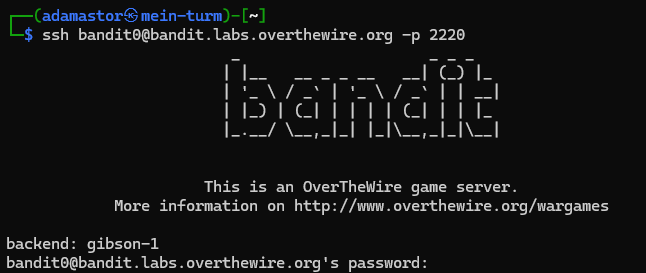
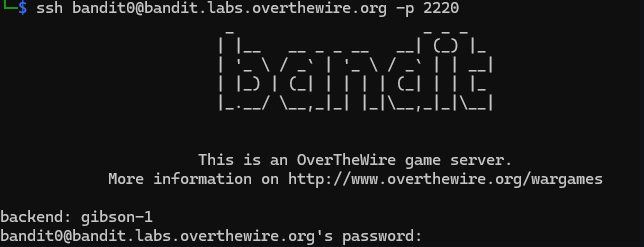
bandit 16 solutions

Changed region(s): [[0.0, 0.0, 0.7764, 0.5101], [0.1553, 0.6235, 0.9627, 0.7935], [0.0, 0.8502, 0.6522, 1.0]]

diff --git a/OverTheWire Bandit Game.md b/OverTheWire Bandit Game.md
@@ -506,3 +506,137 @@ FO5dwFsc0cbaIiH0h8J2eUks2vdTDwAn
 ```
 
 ---
+---
+
+## Level 13 → Level 14
+
+### Level Info
+
+>The password for the next level is stored in **/etc/bandit_pass/bandit14 and can only be read by user bandit14**. For this level, you don’t get the next password, but you get a private SSH key that can be used to log into the next level. Look at the commands that logged you into previous bandit levels, and find out how to use the key for this level.
+
+---
+
+### Commands
+
+```bash
+ls
+cat sshkey.private
+exit
+nano bandit14.key
+chmod 600 bandit14.key
+ssh -i bandit14.key bandit14@bandit.labs.overthewire.org -p 2220
+```
+
+![](assets/bandit13/step1.png)
+![](assets/bandit13/step2.png)
+![](assets/bandit13/step3.png)
+
+> **Password:** MU4VWeTyJk8ROof1qqmcBPaLh7lDCPvS
+
+### Explanation
+
+>In this level, instead of a password, a private SSH key is provided.  
+>The password for the next level can only be read by user **bandit14**, so we must authenticate as that user using the given private key.
+
+>Using SSH with the `-i` option allows us to specify the private key file and log in directly as **bandit14**, gaining access to the next level.
+
+>Don't forget to cat /etc/bandit_pass/bandit14
+
+### Into the next!
+
+```bash
+ssh -i bandit14.key bandit14@bandit.labs.overthewire.org -p 2220
+```
+or
+```bash
+ssh bandit15@bandit.labs.overthewire.org -p 2220
+```
+
+```bash
+MU4VWeTyJk8ROof1qqmcBPaLh7lDCPvS
+```
+
+---
+
+## Level 14 → Level 15
+
+### Level Info
+
+>The password for the next level can be retrieved by submitting the password of the current level to **port 30000 on localhost**.
+
+---
+
+### Commands
+
+```bash
+echo "MU4VWeTyJk8ROof1qqmcBPaLh7lDCPvS" | nc localhost 30000
+```
+
+![](assets/bandit14/step1.png)
+
+> **Password:** 8xCjnmgoKbGLhHFAZlGE5Tmu4M2tKJQo
+
+### Explanation
+
+>This level introduces a network service running locally on the server.  
+>The password must be sent to **port 30000 on localhost**.
+
+>Using `echo`, the current password is provided as input.  
+>The pipe (`|`) forwards this input to `nc` (netcat), which opens a TCP connection to the specified port.
+
+>When the correct password is received, the service returns the password for the next level.
+
+### Into the next!
+
+```bash
+ssh bandit15@bandit.labs.overthewire.org -p 2220
+```
+
+```bash
+8xCjnmgoKbGLhHFAZlGE5Tmu4M2tKJQo
+```
+
+---
+
+## Level 15 → Level 16
+
+### Level Info
+
+>The password for the next level can be retrieved by submitting the password of the current level to **port 30001 on localhost** using SSL/TLS encryption.
+
+>**Helpful note: Getting “DONE”, “RENEGOTIATING” or “KEYUPDATE”? Read the “CONNECTED COMMANDS” section in the manpage.**
+
+---
+
+### Commands
+
+```bash
+openssl s_client -connect localhost:30001
+# input the password from Bandit14: 8xCjnmgoKbGLhHFAZlGE5Tmu4M2tKJQo
+```
+
+![](assets/bandit15/step2.png)
+![](assets/bandit15/step1.png)
+
+> **Password:** kSkvUpMQ7lBYyCM4GBPvCvT1BfWRy0Dx
+
+### Explanation
+
+>`openssl s_client` is used to establish a TLS connection to `localhost` on port `30001`.  
+>Once connected, the current level’s password is typed manually and sent to the service.
+
+>If the password is correct, the server responds with the password for the next level.
+
+>Messages like **DONE**, **RENEGOTIATING**, or **KEYUPDATE** are part of the TLS handshake and can be ignored.
+
+### Into the next!
+
+```bash
+ssh bandit16@bandit.labs.overthewire.org -p 2220
+```
+
+```bash
+kSkvUpMQ7lBYyCM4GBPvCvT1BfWRy0Dx
+```
+
+---
